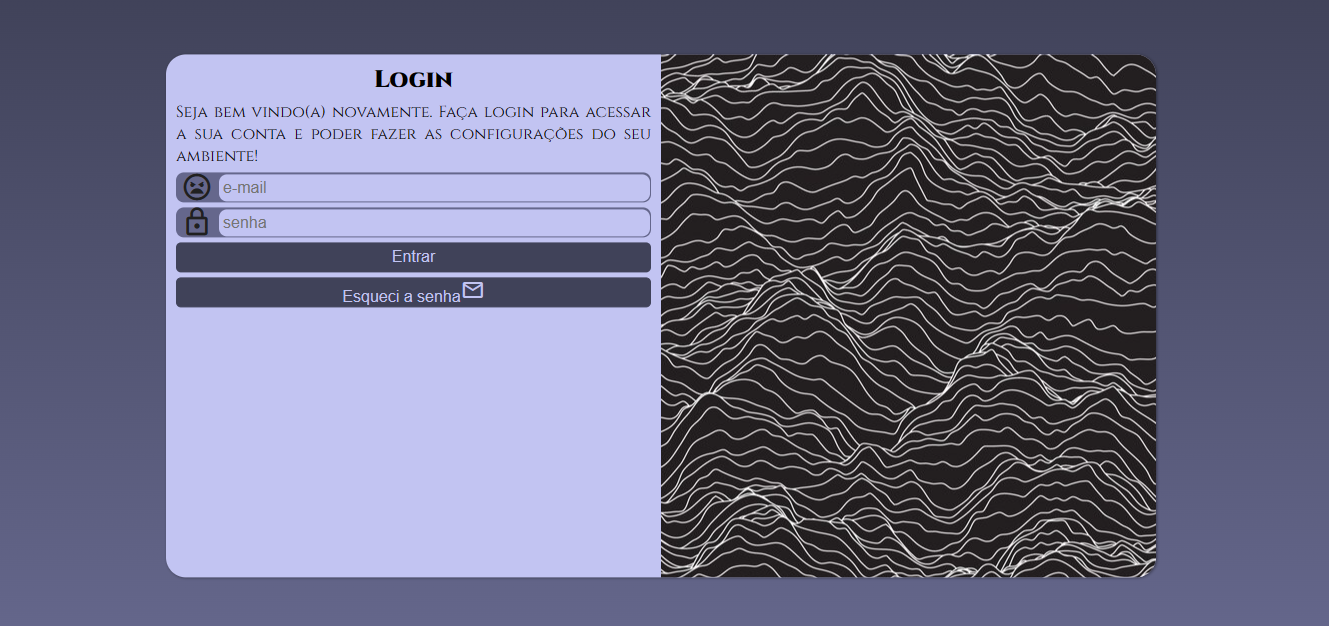
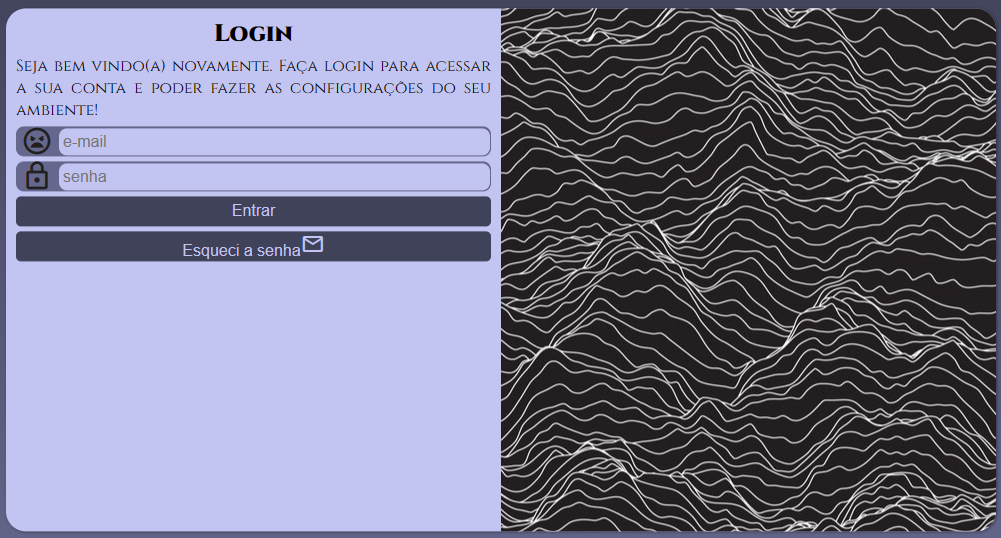
por hj chegaa

diff --git a/portfolio/estilos/style.css b/portfolio/estilos/style.css
@@ -231,6 +231,7 @@ header a:hover{
     display: flex;
     flex-direction: row;
     flex-wrap: wrap;
+    align-items: center;
     justify-content: center;
     padding: 20px;
 }
@@ -244,11 +245,11 @@ header a:hover{
     background-size: cover;
     box-shadow: 1px 2px 2px rgba(0, 0, 0, 0.473);
     transition: transform 0.2s ease-in-out;
+    border-radius: 10px;
 }
 
 .imgProjetos .containerCheckpoint:hover{
     background-color: #0D0D0D;
-    opacity: 40%;
     filter: saturate(0);
     transform: scale(.9);
 }
@@ -264,8 +265,67 @@ header a:hover{
     width: 350px;
     height: 400px;
     margin: 10px;
+    transition: transform 0.2s ease-in-out;
+    border-radius: 10px;
+    box-shadow: 1px 2px 2px rgba(0, 0, 0, 0.473);
     background-image: url(../imagens/projetoLogin.png);
     background-position: left center;
     background-repeat: no-repeat;
     background-size: cover;
+}
+
+.containerLogin:hover{
+    background-color: #0D0D0D;
+    filter: saturate(0);
+    transform: scale(.9);
+}
+
+.imgProjetos .containerSocial{
+    width: 350px;
+    height: 400px;
+    margin: 10px;
+    transition: transform 0.2s ease-in-out;
+    border-radius: 10px;
+    box-shadow: 1px 2px 2px rgba(0, 0, 0, 0.473);
+    background-image: url(../imagens/projetoSocial.png);
+    background-position: center center;
+    background-repeat: no-repeat;
+    background-size: cover;
+}
+
+.imgProjetos .containerSocial:hover{
+    background-color: #0D0D0D;
+    filter: saturate(0);
+    transform: scale(.9);
+}
+.imgProjetos .containerCordel{
+    width: 350px;
+    height: 400px;
+    margin: 10px;
+    transition: transform 0.2s ease-in-out;
+    border-radius: 10px;
+    box-shadow: 1px 2px 2px rgba(0, 0, 0, 0.473);
+    background-image: url(../imagens/projetoCordel.png);
+    background-position: center center;
+    background-repeat: no-repeat;
+    background-size: cover;
+}
+
+.imgProjetos .containerCordel:hover{
+    background-color: #0D0D0D;
+    filter: saturate(0);
+    transform: scale(.9);
+}
+
+/*Fim dos projetos*/
+
+/*Começo do contatos*/
+
+#contato{
+    background-image: linear-gradient(to bottom, rgb(68, 68, 68), #1C2326);
+}
+#inome, #iemail, #iassun{
+    display: block;
+    padding: 5px;
+    margin:10px;
 }

diff --git a/portfolio/index.html b/portfolio/index.html
@@ -57,13 +57,36 @@
         <section class="" id="projetos">
             <h1 class="destaque">Meus projetos</h1>
             <div class="imgProjetos">  
-                <a href="https://y0ur3.github.io/ProjetoCheckpoint/" target="_blank"><div class="containerCheckpoint"></div></a>
-                <div class="containerLogin"></div>
+                <a href="https://y0ur3.github.io/ProjetoCheckpoint/" target="_blank">
+                    <div class="containerCheckpoint">
+
+                    </div>
+                </a>
+                <div class="containerLogin">
+
+                </div>
+                <div class="containerSocial">
+
+                </div>
+                <div class="containerCordel">
+
+                </div>
             </div>
-                <!--<img src="imagens/projetoLogin.png" alt="">
-                <img src="imagens/projetoSocial.png" alt="">
-                <img src="imagens/projetoCordel.png" alt="">-->
-            
+        </section>
+        
+        <section class="tela" id="contato">
+            <h2 class="destaque">Contato</h2>
+            <form action="" id="formulario">
+                <label for="inome">Nome:
+                    <input type="text" name="nome" id="inome">
+                </label>
+                <label for="iemail">Email:
+                    <input type="email" name="email" id="iemail">
+                </label>
+                <label for="iassun">Assunto:
+                    <textarea name="assunto" id="iassun" cols="30" rows="10"></textarea>
+                </label>
+            </form>
         </section>
     </main>
     <footer>
